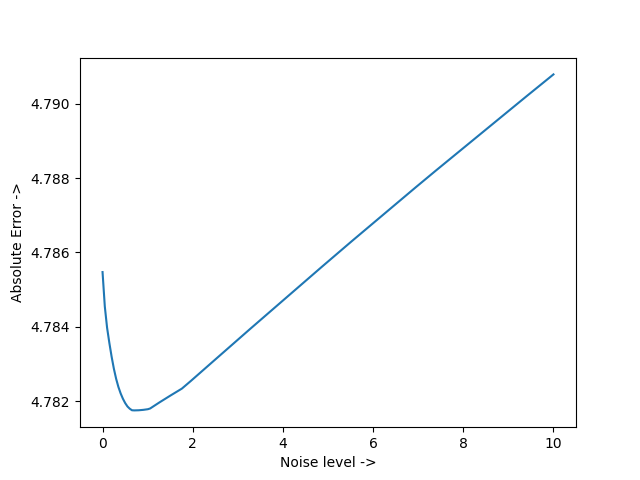
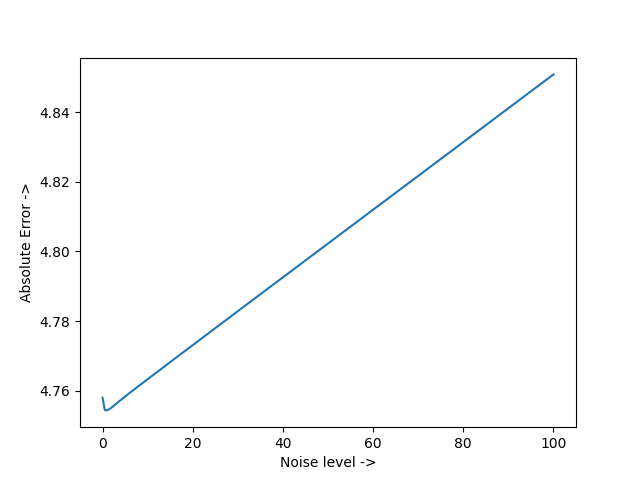
loss z = 0 to 100

diff --git a/noise.py b/noise.py
@@ -29,7 +29,7 @@ def evaluate():
 def evaluate_noise():
     model.eval()
 
-    errors = np.linspace(0,10,200)
+    errors = np.linspace(0,100,200)
     abs_err = []
 
     for z in errors:
@@ -195,6 +195,6 @@ if __name__=="__main__":
 
         evaluate()
 
-    #evaluate_noise()
+    evaluate_noise()
     #evaluate_noise_loss()
-    evaluate_noise_loss_gradient()
+    #evaluate_noise_loss_gradient()
